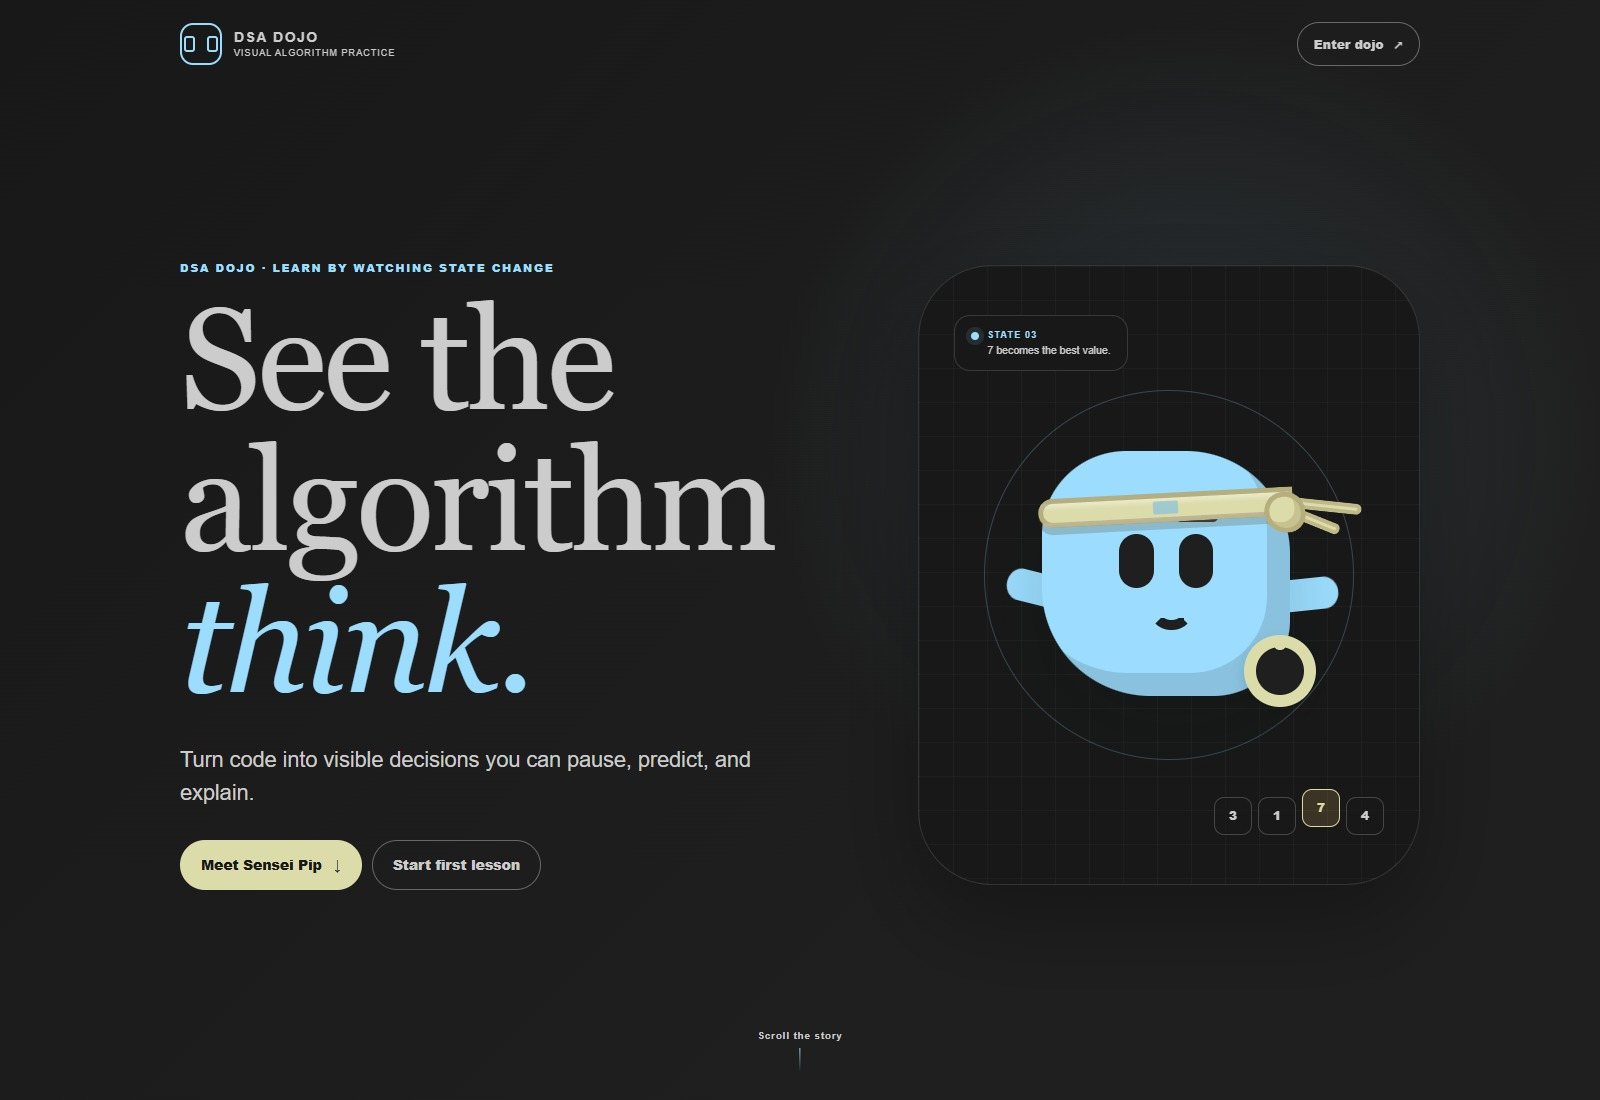
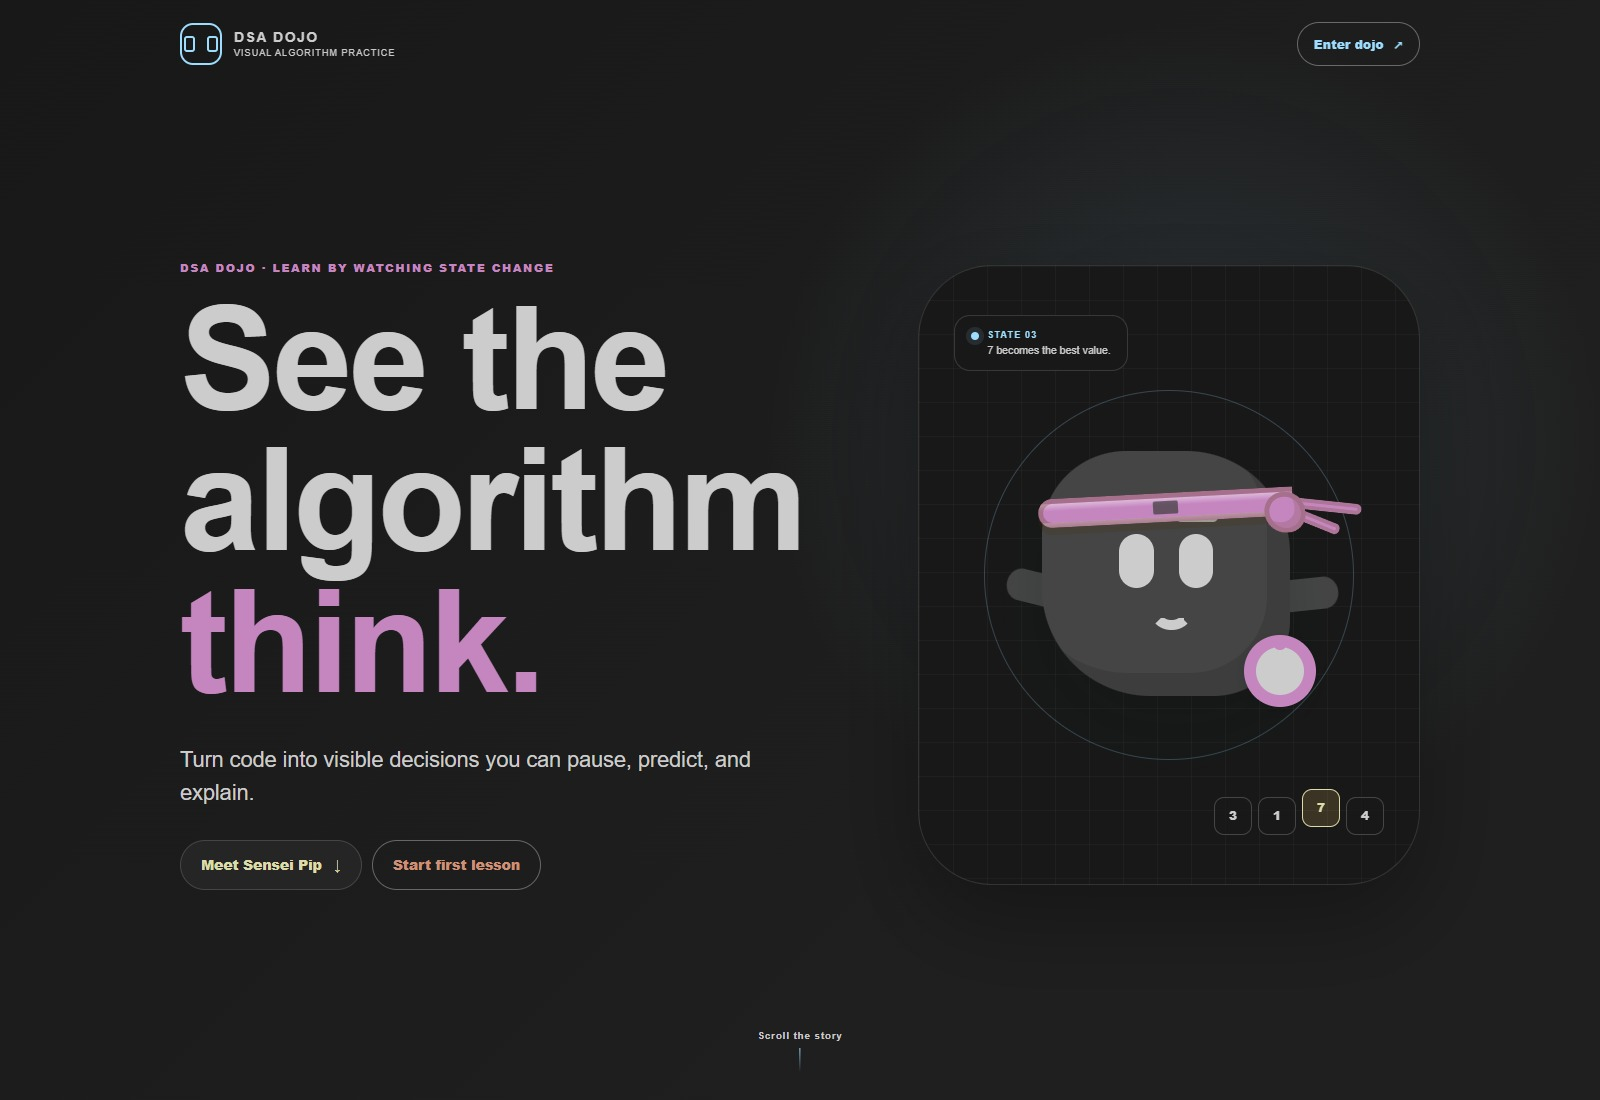
Unify bold typography, balanced Dark Modern accents and destination-specific media (#46)

diff --git a/app/work/pay-period-planner/page.tsx b/app/work/pay-period-planner/page.tsx
@@ -28,7 +28,7 @@ export const metadata: Metadata = {
     description,
     images: [
       {
-        url: `${siteUrl}/images/pay-period-planner-overview.png?v=20261023-type`,
+        url: `${siteUrl}/images/pay-period-planner-overview.png?v=20261023-balanced`,
         width: 1440,
         height: 900,
         alt: "Pay Period Planner household overview populated with synthetic data",
@@ -39,7 +39,7 @@ export const metadata: Metadata = {
     card: "summary_large_image",
     title,
     description,
-    images: [`${siteUrl}/images/pay-period-planner-overview.png?v=20261023-type`],
+    images: [`${siteUrl}/images/pay-period-planner-overview.png?v=20261023-balanced`],
   },
 };
 
@@ -170,7 +170,7 @@ export default function PayPeriodPlannerCaseStudy() {
             </div>
             <div className="case-study-overview-image">
               <Image
-                src={`${basePath}/images/pay-period-planner-overview.png?v=20261023-type`}
+                src={`${basePath}/images/pay-period-planner-overview.png?v=20261023-balanced`}
                 alt="Pay Period Planner household overview with projection, balances, cash flow, and calendar summaries"
                 fill
                 priority
@@ -245,7 +245,7 @@ export default function PayPeriodPlannerCaseStudy() {
                 </div>
                 <div className="case-study-projection-image">
                   <Image
-                    src={`${basePath}/images/pay-period-planner-projection.png?v=20261023-type`}
+                    src={`${basePath}/images/pay-period-planner-projection.png?v=20261023-balanced`}
                     alt="Pay Period Planner next-paycheck projection with planning schedule, selected inputs, and possible allocations"
                     fill
                     sizes="(max-width: 760px) 100vw, (max-width: 1200px) 58vw, 760px"
@@ -264,7 +264,7 @@ export default function PayPeriodPlannerCaseStudy() {
                 </div>
                 <div className="case-study-mobile-image">
                   <Image
-                    src={`${basePath}/images/pay-period-planner-mobile.png?v=20261023-type`}
+                    src={`${basePath}/images/pay-period-planner-mobile.png?v=20261023-balanced`}
                     alt="Pay Period Planner monthly withdrawals workflow at a 390 pixel mobile viewport"
                     fill
                     sizes="(max-width: 760px) 88vw, 300px"

diff --git a/app/page.tsx b/app/page.tsx
@@ -251,7 +251,7 @@ export default function Home() {
               </div>
               <div className="project-image">
                 <Image
-                  src={`${basePath}/images/pay-period-planner-overview.png?v=20261023-type`}
+                  src={`${basePath}/images/pay-period-planner-overview.png?v=20261023-balanced`}
                   alt="Pay Period Planner household overview with projection, balances, cash flow, and calendar summaries"
                   fill
                   priority
@@ -351,7 +351,7 @@ export default function Home() {
               </div>
               <div className="project-image project-image--contain">
                 <Image
-                  src={`${basePath}/images/dsa-dojo-overview.jpg?v=20261023-type`}
+                  src={`${basePath}/images/dsa-dojo-overview.jpg?v=20261023-balanced`}
                   alt="DSA Dojo dark lesson studio with its lesson catalog and Sensei Pip guide"
                   fill
                   sizes="(max-width: 760px) 100vw, (max-width: 1200px) 62vw, 52vw"

diff --git a/app/globals.css b/app/globals.css
@@ -1,6 +1,6 @@
 :root {
   --font-ui: Arial, Helvetica, ui-sans-serif, system-ui, -apple-system, BlinkMacSystemFont, "Segoe UI", sans-serif;
-  --font-display: Georgia, "Times New Roman", serif;
+  --font-display: var(--font-ui);
   --font-code: Consolas, "Courier New", monospace;
 
   color-scheme: light;
@@ -316,7 +316,7 @@ h1 {
   margin-bottom: 12px;
   font-family: var(--font-display);
   font-size: 82px;
-  font-weight: 500;
+  font-weight: 700;
   line-height: 0.98;
   letter-spacing: 0;
 }
@@ -421,7 +421,7 @@ h1 {
 .about h2,
 .contact h2 {
   font-family: var(--font-display);
-  font-weight: 500;
+  font-weight: 700;
   letter-spacing: 0;
 }
 
@@ -718,7 +718,7 @@ h1 {
   color: var(--accent-text);
   font-family: var(--font-display);
   font-size: 36px;
-  font-weight: 500;
+  font-weight: 700;
   line-height: 1;
 }
 

diff --git a/app/case-study.css b/app/case-study.css
@@ -140,7 +140,7 @@
   margin-bottom: 0;
   font-family: var(--font-display);
   font-size: 50px;
-  font-weight: 500;
+  font-weight: 700;
   line-height: 1.08;
   letter-spacing: 0;
 }
@@ -361,7 +361,7 @@
   margin: 0 0 14px;
   font-family: var(--font-display);
   font-size: 28px;
-  font-weight: 500;
+  font-weight: 700;
   line-height: 1.15;
 }
 
@@ -417,7 +417,7 @@
   margin-bottom: 10px;
   font-family: var(--font-display);
   font-size: 30px;
-  font-weight: 500;
+  font-weight: 700;
   line-height: 1.1;
   overflow-wrap: anywhere;
 }

diff --git a/docs/visual-system.md b/docs/visual-system.md
@@ -3,7 +3,7 @@
 The portfolio, Pay Period Planner and DSA Dojo share a system-font pairing:
 
 - Interface text: Arial, Helvetica and system sans-serif fallbacks.
-- Display headings: Georgia, Times New Roman and serif fallbacks.
+- Display headings: bold Arial with the same sans-serif fallbacks.
 - Code: Consolas, Courier New and monospace fallbacks.
 
 Fonts are supplied by the device; no font service or remote font request is required.
@@ -11,3 +11,5 @@ Fonts are supplied by the device; no font service or remote font request is requ
 Dark Modern uses #1F1F1F for the canvas, #181818 for side panels, #CCCCCC for body text, #0078D4 for actions and focus, and #9CDCFE for readable blue accents. Yellow #DCDCAA, magenta #C586C0 and salmon #CE9178 distinguish supporting details. Error states use #F85149. Green and teal are not brand or interface accents. Light mode, where supported, keeps neutral surfaces and blue interactions.
 
 Application screenshots are real browser captures. Planner captures use an isolated synthetic workspace. Marketing thumbnails are illustrative and are refreshed when the visible design changes.
+
+Large panels stay neutral charcoal. Light blue, magenta, warm yellow and salmon distinguish labels and supporting details, matching the portfolio technology labels. Blue marks actions and focus rather than filling decorative panels.
